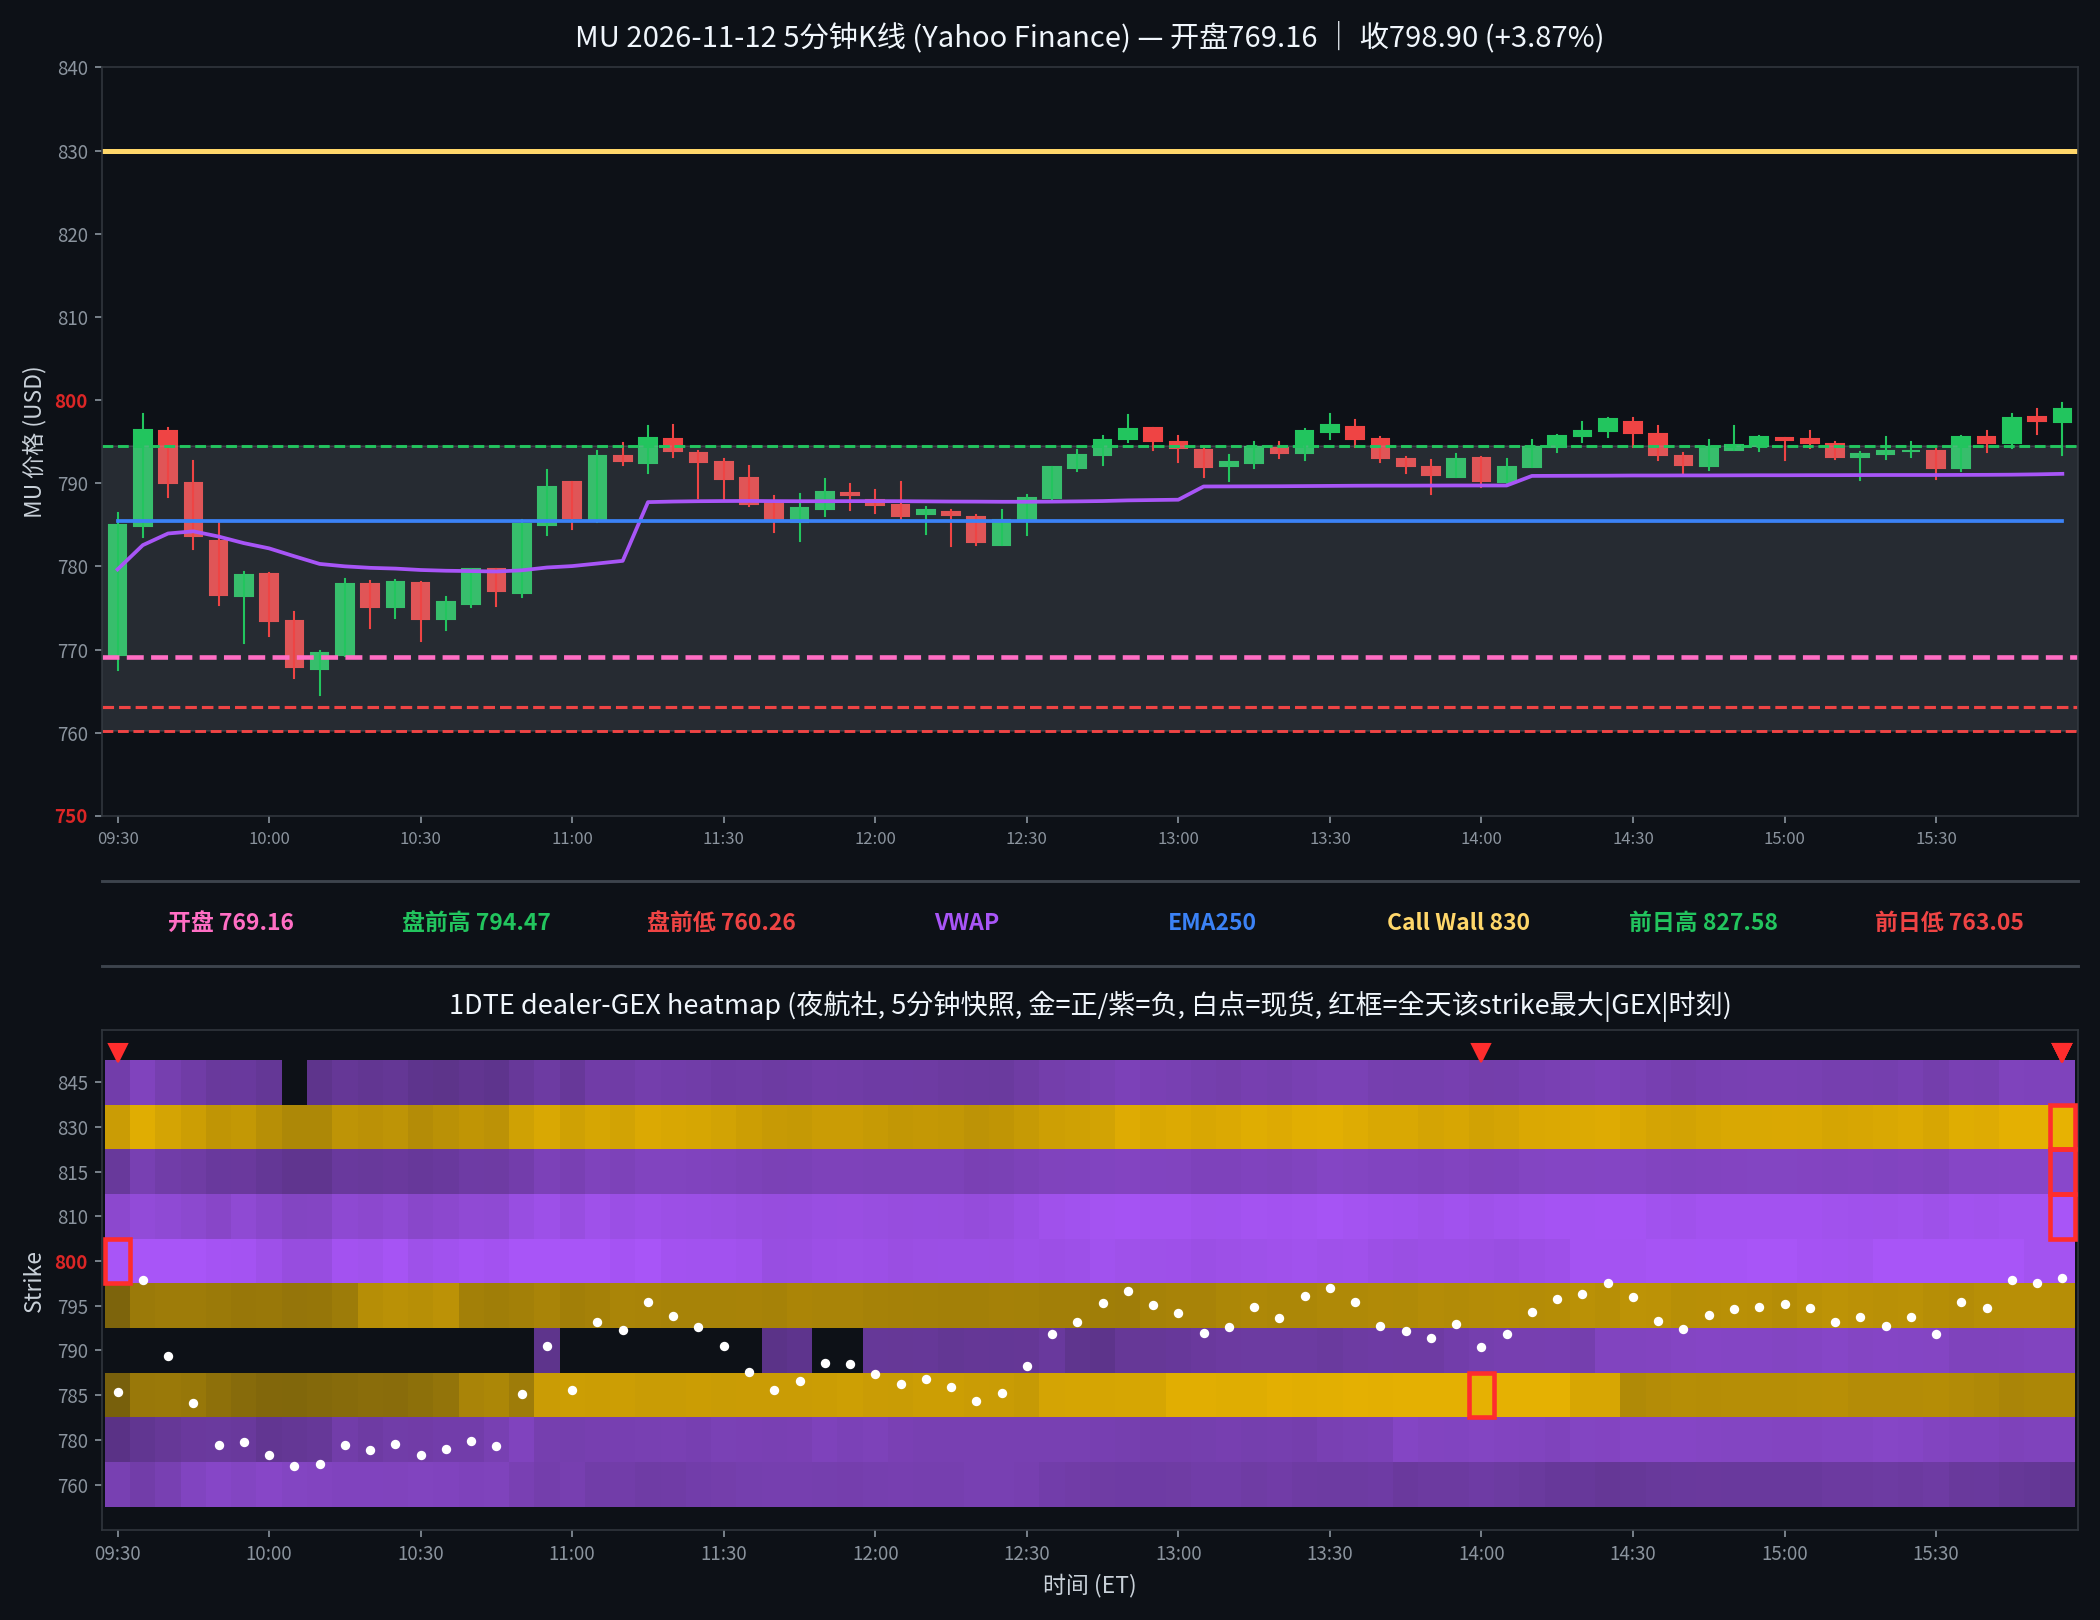
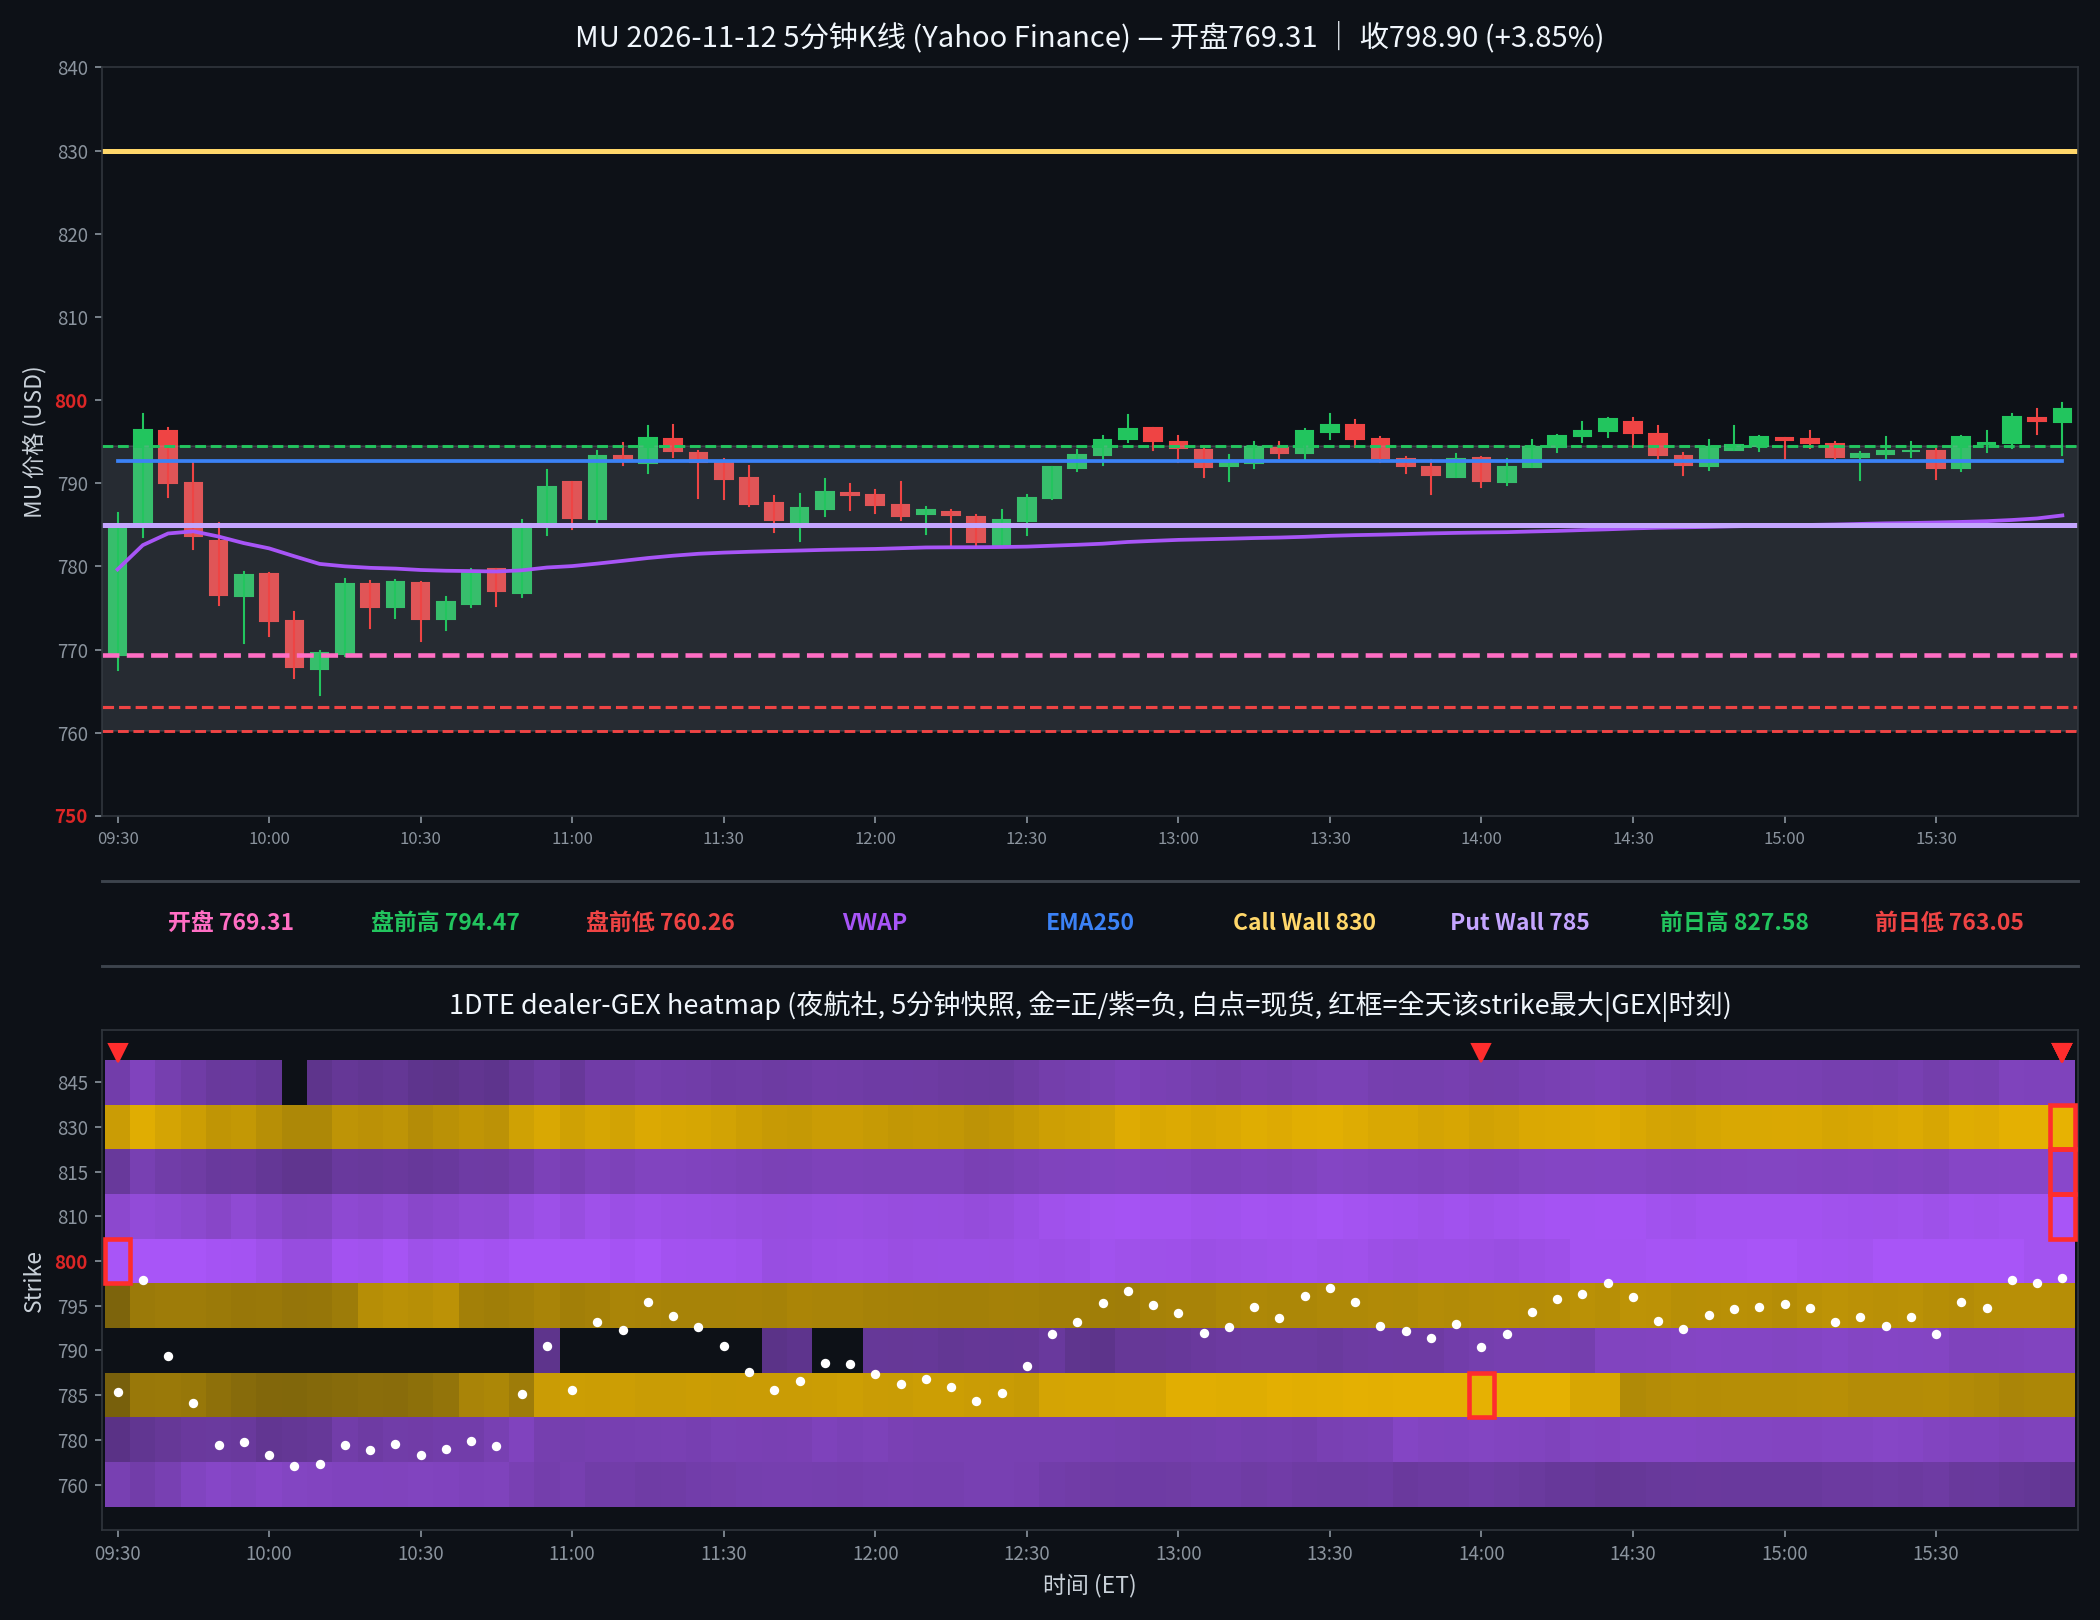
MU 2026-11-12 日报 put wall 改用 785 弱墙

diff --git a/mu/index.html b/mu/index.html
@@ -51,7 +51,7 @@
 <h1 style="margin:0 0 4px">MU 日内报告</h1>
 <p class="data-note">历史数据库：每日收盘后追加当日报告，历史日期永久保留。</p>
 <nav class="day-tabs" role="tablist" aria-label="日期">
-<a class="day-tab" role="tab" data-target="day-1112" aria-selected="true" href="#day-1112">11/12 周四 <span class="tab-move up">35.04</span></a>
+<a class="day-tab" role="tab" data-target="day-1112" aria-selected="true" href="#day-1112">11/12 周四 <span class="tab-move up">35.13</span></a>
 <a class="day-tab" role="tab" data-target="day-1111" aria-selected="false" href="#day-1111">11/11 周三 <span class="tab-move up">64.53</span></a>
 <a class="day-tab" role="tab" data-target="day-1110" aria-selected="false" href="#day-1110">11/10 周二 <span class="tab-move down">46.01</span></a>
 <a class="day-tab" role="tab" data-target="day-1109" aria-selected="false" href="#day-1109">11/9 周一 <span class="tab-move up">55.09</span></a>
@@ -133,8 +133,8 @@
 <h1>MU 日内报告</h1>
 <p class="date">2026年11月12日 · 周四 · 日内报告</p>
 </div><div class="tape">
-<strong>799.52 <span class="up">+3.95%</span></strong>
-<span>开 769.16 · 高 799.61 · 低 764.57</span>
+<strong>798.44 <span class="up">+3.79%</span></strong>
+<span>开 769.31 · 高 799.70 · 低 764.57</span>
 </div></header>
 <aside class="event">
 <div class="event-tag quiet">非事件日</div>
@@ -236,11 +236,11 @@
 <p>价格行为 × 1DTE GEX 结构复盘</p>
 </div>
 <div class="summary-list">
-<article class="summary-item"><p>① 开盘 769.16；全天 799.61–764.57，收 799.52（+3.95%）。</p></article>
-<article class="summary-item"><p>② 白点轨迹：开 769.16 → 高 799.61 → 低 764.57 → 收 799.52。</p></article>
-<article class="summary-item"><p>③ 墙位：call 830 / put 无（heatmap首档算法口径）。</p></article>
+<article class="summary-item"><p>① 开盘 769.31 在 put wall 785 下方；全天 799.70–764.57，收 798.44（+3.79%）。</p></article>
+<article class="summary-item"><p>② 白点轨迹：开 769.31 → 高 799.70 → 低 764.57 → 收 798.44。</p></article>
+<article class="summary-item"><p>③ 墙位：call 830 / put 785（heatmap首档算法口径）。</p></article>
 <article class="summary-item"><p>④ 资金流：全天26笔：主动买入(call ask + put bid)$6.21M，主动卖出(put ask + call bid)$2.51M，mid $0.00M（不计入主动买卖）；主动资金偏多。</p></article>
-<article class="summary-item"><p>⑤ 收盘在 VWAP 上方（VWAP 791.13，EMA250 785.46）。</p></article>
+<article class="summary-item"><p>⑤ 收盘在 VWAP 上方（VWAP 786.13，EMA250 792.63）。</p></article>
 </div></section>
 <p class="data-note">heatmap 亮度=平方根连续渐变（p99 裁剪）；K线=Yahoo Finance 5分钟；heatmap=夜航社 dealer-GEX 5分钟快照。</p>
 <p class="data-note">收盘后的静态快照；页面不在打开时更新行情。</p>

diff --git a/mu/2026-11-12.html b/mu/2026-11-12.html
@@ -54,8 +54,8 @@
 <h1>MU 日内报告</h1>
 <p class="date">2026年11月12日 · 周四 · 日内报告</p>
 </div><div class="tape">
-<strong>799.52 <span class="up">+3.95%</span></strong>
-<span>开 769.16 · 高 799.61 · 低 764.57</span>
+<strong>798.44 <span class="up">+3.79%</span></strong>
+<span>开 769.31 · 高 799.70 · 低 764.57</span>
 </div></header>
 <aside class="event">
 <div class="event-tag quiet">非事件日</div>
@@ -157,11 +157,11 @@
 <p>价格行为 × 1DTE GEX 结构复盘</p>
 </div>
 <div class="summary-list">
-<article class="summary-item"><p>① 开盘 769.16；全天 799.61–764.57，收 799.52（+3.95%）。</p></article>
-<article class="summary-item"><p>② 白点轨迹：开 769.16 → 高 799.61 → 低 764.57 → 收 799.52。</p></article>
-<article class="summary-item"><p>③ 墙位：call 830 / put 无（heatmap首档算法口径）。</p></article>
+<article class="summary-item"><p>① 开盘 769.31 在 put wall 785 下方；全天 799.70–764.57，收 798.44（+3.79%）。</p></article>
+<article class="summary-item"><p>② 白点轨迹：开 769.31 → 高 799.70 → 低 764.57 → 收 798.44。</p></article>
+<article class="summary-item"><p>③ 墙位：call 830 / put 785（heatmap首档算法口径）。</p></article>
 <article class="summary-item"><p>④ 资金流：全天26笔：主动买入(call ask + put bid)$6.21M，主动卖出(put ask + call bid)$2.51M，mid $0.00M（不计入主动买卖）；主动资金偏多。</p></article>
-<article class="summary-item"><p>⑤ 收盘在 VWAP 上方（VWAP 791.13，EMA250 785.46）。</p></article>
+<article class="summary-item"><p>⑤ 收盘在 VWAP 上方（VWAP 786.13，EMA250 792.63）。</p></article>
 </div></section>
 <p class="data-note">heatmap 亮度=平方根连续渐变（p99 裁剪）；K线=Yahoo Finance 5分钟；heatmap=夜航社 dealer-GEX 5分钟快照。</p>
 <p class="data-note">收盘后的静态快照；页面不在打开时更新行情。</p>
